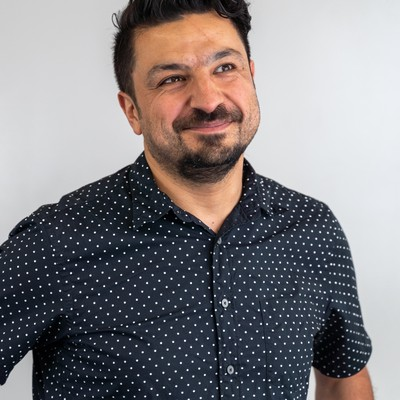
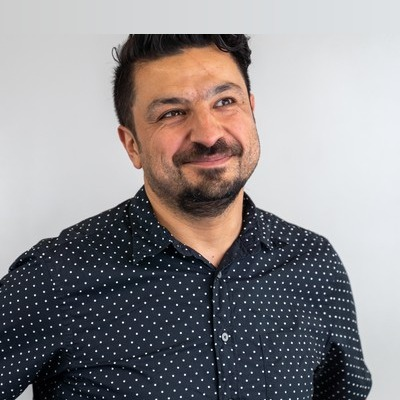
Fix resources thumbnails, portrait crop, partner intake form, copy tweaks

diff --git a/src/app/resources/page.js b/src/app/resources/page.js
@@ -16,9 +16,9 @@ export default function ResourcesPage() {
             Resources
           </h1>
           <p className="mt-6 max-w-xl text-base leading-relaxed text-ink-soft">
-            Writing on culture and ritual design that holds across cohorts. A
-            given quarter&apos;s assigned readings stay on that cohort&apos;s
-            page, where they belong.
+            Writing on culture and ritual design that holds across cohorts,
+            from current and former teaching team members, their
+            collaborators, and guest speakers.
           </p>
         </div>
 
@@ -37,15 +37,19 @@ export default function ResourcesPage() {
               </span>
               <div className="flex gap-5">
                 {r.cover && (
-                  <Image
-                    src={r.cover}
-                    alt=""
-                    aria-hidden="true"
-                    width={120}
-                    height={160}
-                    style={{ width: "3.25rem", height: "auto" }}
-                    className="shrink-0 border border-line object-cover"
-                  />
+                  <div
+                    className="relative shrink-0 bg-white"
+                    style={{ width: "3.25rem", aspectRatio: "3 / 4" }}
+                  >
+                    <Image
+                      src={r.cover}
+                      alt=""
+                      aria-hidden="true"
+                      fill
+                      sizes="52px"
+                      className="object-contain"
+                    />
+                  </div>
                 )}
                 <div>
                   <h2 className="display text-xl uppercase group-hover:text-cyan-deep">

diff --git a/src/app/partners/page.js b/src/app/partners/page.js
@@ -78,14 +78,23 @@ export default function PartnersPage() {
                 ))}
               </dl>
 
-              {/* The address lives in the mailto only — it opens the visitor's
-                  mail client without printing the address on the page. */}
-              <div className="mt-10">
+              {/* The intake form is the primary path in; the address lives in
+                  the mailto only — it opens the visitor's mail client
+                  without printing the address on the page. */}
+              <div className="mt-10 flex flex-wrap items-center gap-6">
                 <a
-                  href={mailto}
+                  href={partnerContact.intakeFormUrl}
+                  target="_blank"
+                  rel="noopener noreferrer"
                   className="spec inline-block border border-ink px-6 py-3.5 text-ink hover:bg-ink hover:text-paper"
                 >
                   Bring us a challenge →
+                </a>
+                <a
+                  href={mailto}
+                  className="spec text-ink-faint underline-offset-4 hover:text-ink hover:underline"
+                >
+                  Or email us
                 </a>
               </div>
             </div>

diff --git a/src/app/people/page.js b/src/app/people/page.js
@@ -107,9 +107,11 @@ export default function PeoplePage() {
             People
           </h1>
           <p className="mt-6 max-w-xl text-base leading-relaxed text-ink-soft">
-            Everyone who has taught the class or come in to teach alongside it.
-            Like the partner list, this one accumulates — a name earns a year
-            and stays, and some names come back in a different chair.
+            Everyone who has taught the class, or come in to teach alongside
+            it — a community of practice. Every year we welcome guest
+            speakers and expert coaches who bring an outside-in perspective
+            to organizational culture design, and some return later in a
+            different chair.
           </p>
         </div>
 

diff --git a/src/content/partners.js b/src/content/partners.js
@@ -106,6 +106,7 @@ export const partners = [
 export const partnerContact = {
   email: "kursat@dschool.stanford.edu",
   subject: "Partnering with Designing Org Culture",
+  intakeFormUrl: "https://forms.gle/Vu8LgW9UCW3jyMaU6",
 };
 
 export function getPartnerBySlug(slug) {
